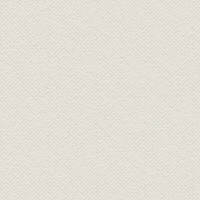
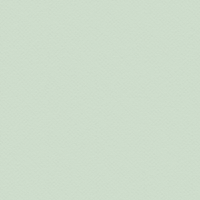
changed styles for layout and homepage background image edited for color homepage now renders a partial when logged in

diff --git a/app/assets/stylesheets/style.css.scss b/app/assets/stylesheets/style.css.scss
@@ -6,9 +6,12 @@ body {
   background-image: url("background.png");
 }
 
+.container {
+  margin-top: 35px;
+}
+
 .form-login {
   text-align: center;
-  margin-top: 35px;
 }
 
 label {
@@ -18,19 +21,24 @@ label {
 
 input[type=text],
 input[type=password] {
-  padding: 15px;
-  margin: 5px;
-  background-color: #a4cac7;
-  color: #ffffff;
+  text-indent: 1em;
+  padding: 1em 0em;
+  margin: 1em;
+  background-color: #ffffff;
+  width: 80%;
+  max-width: 400px;
+  border-radius: 5px;
+  border: 2px solid #7eb282;
 }
 
 ::-webkit-input-placeholder {
-   color: #ffffff;
+   color: #696969;
 }
 
-.signup {
+#create_acc_link {
+  display: block;
   text-align: center;
-  margin-top: 20px;
+  margin: 20px 0px;
 }
 
 .hidden {
@@ -51,17 +59,45 @@ input[type=password] {
 
 .logo {
   text-align: center;
+  margin: 0 auto;
 }
 
 .header {
   background-color: #3e7e9f;
-  box-shadow: 0 10px 5px 5px #3e7e9f;
+  box-shadow: 0px 10px 20px #91acab;
 }
 
 .btn {
   color: #ffffff;
   background-color: #7eb282;
-  padding: 5px 25px 5px 25px;
+  padding: 1em 2em;
+  width: 80%;
+  max-width: 400px;
+  border-radius: 5px;
+  border: 0px;
+}
+.center_buttons {
+  text-align: center;
+  margin: 0 auto;
+  width: 98%;
+}
+.button_to div {
+display: inline;
+}
+.sidebtn {
+  color: #ffffff;
+  background-color: #7eb282;
+  padding: 1em 0em;
+  width: 40%;
+  max-width: 200px;
+  border-radius: 5px;
+  border: 0px;
+}
+a {
+  color: #1f516b;
+}
+a:hover {
+  color: #3e7e9f;
 }
 
 .in-line {
@@ -73,7 +109,7 @@ input[type=password] {
 
 form.button_to {
   width: auto;
-  display: inline-block;
+  display: inline;
   text-align: center;
 }
 

diff --git a/app/controllers/home_controller.rb b/app/controllers/home_controller.rb
@@ -1,5 +1,8 @@
 class HomeController < ApplicationController
   def index
     logged_in?
+    if @current_user
+      @courses = @current_user.courses
+    end
   end
 end
